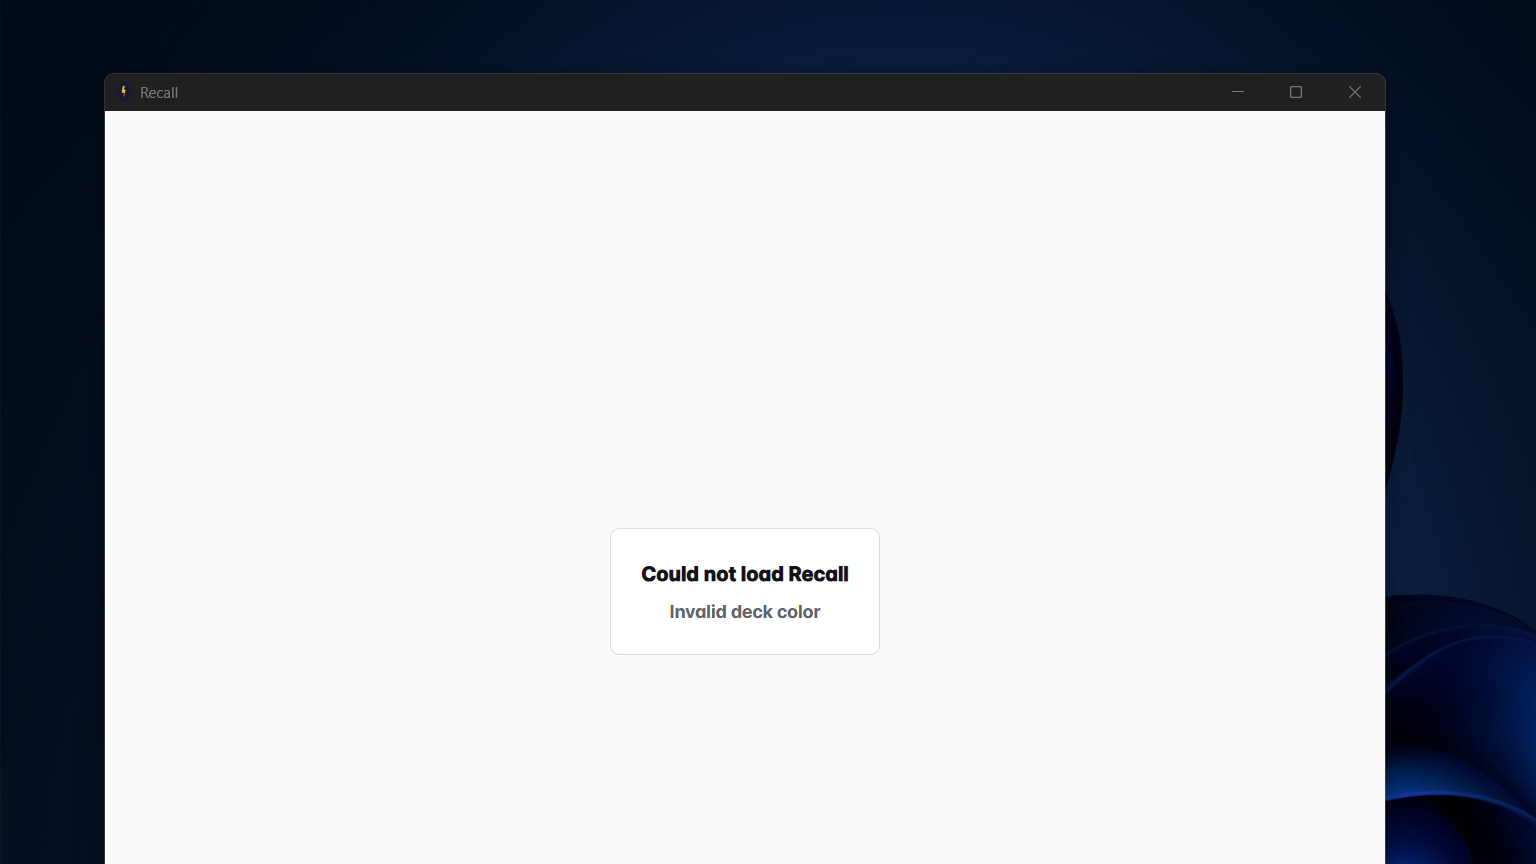
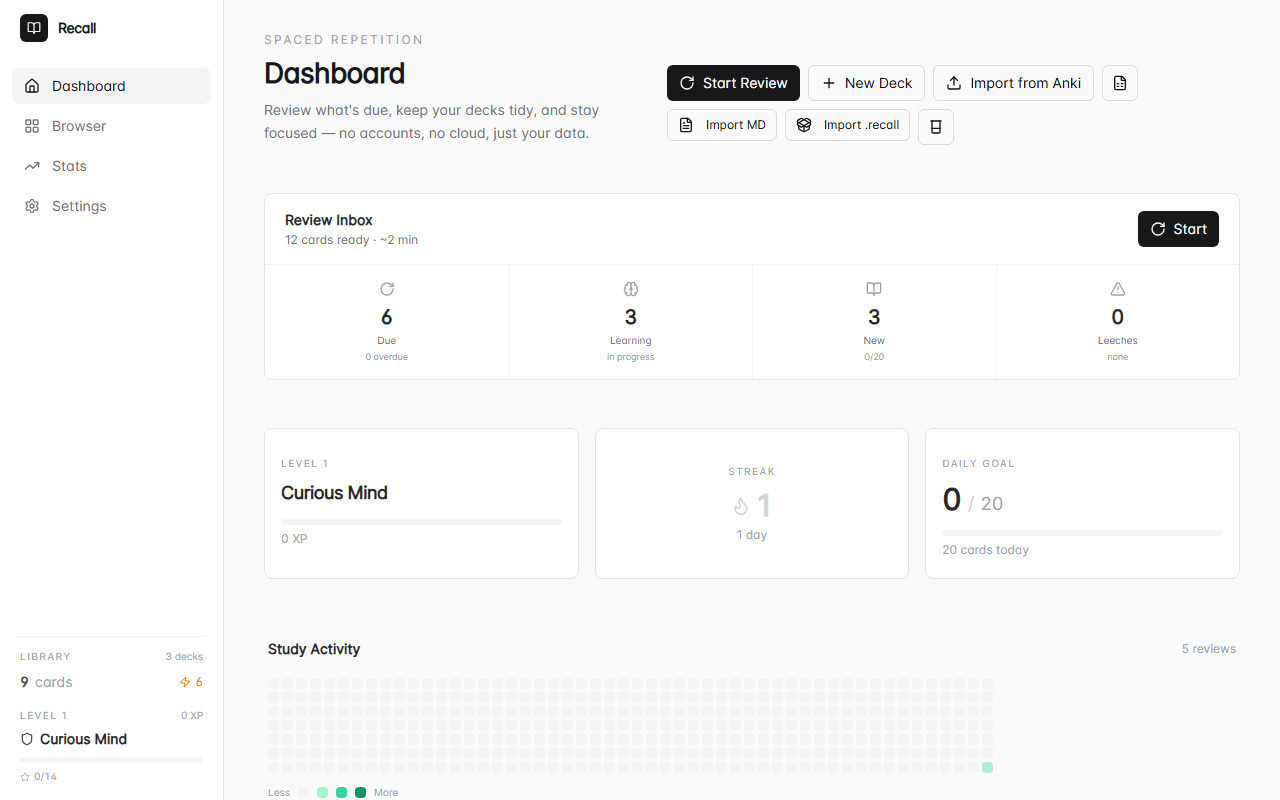
fix: revert screenshots, fix CI lint errors
- Revert screenshots to original (pending user review)
- Fix cargo fmt in anki_import.rs (function signature)
- Fix eslint: remove unused imageSrc, use useCallback for drawCanvas
- Fix eslint: avoid JSX in try/catch (RichCard image occlusion)

diff --git a/src/components/image-occlusion-editor.tsx b/src/components/image-occlusion-editor.tsx
@@ -1,4 +1,4 @@
-import { useState, useRef, useEffect } from "react";
+import { useState, useRef, useEffect, useCallback } from "react";
 import { X, Plus } from "lucide-react";
 import type { ImageOcclusionData, OcclusionShape } from "@/types";
 import { insertImage, getImageUrl } from "@/services/images";
@@ -9,39 +9,38 @@ interface Props {
 }
 
 export function ImageOcclusionEditor({ value, onChange }: Props) {
-  const [imageSrc, setImageSrc] = useState<string>("");
   const [drawing, setDrawing] = useState(false);
   const [startPos, setStartPos] = useState<{ x: number; y: number } | null>(null);
   const [currentShape, setCurrentShape] = useState<OcclusionShape | null>(null);
   const canvasRef = useRef<HTMLCanvasElement>(null);
   const imageRef = useRef<HTMLImageElement | null>(null);
 
-  // Load image when imageUrl changes
-  useEffect(() => {
-    if (!value?.imageUrl) {
-      setImageSrc("");
-      imageRef.current = null;
-      return;
+  const drawShape = useCallback((ctx: CanvasRenderingContext2D, shape: OcclusionShape, img: HTMLImageElement) => {
+    const x = (shape.x / 100) * img.width;
+    const y = (shape.y / 100) * img.height;
+    const w = (shape.width / 100) * img.width;
+    const h = (shape.height / 100) * img.height;
+
+    // Semi-transparent overlay
+    ctx.fillStyle = "rgba(0, 0, 0, 0.5)";
+    ctx.fillRect(x, y, w, h);
+
+    // Border
+    ctx.strokeStyle = "#fff";
+    ctx.lineWidth = 2;
+    ctx.strokeRect(x, y, w, h);
+
+    // Label
+    if (shape.label) {
+      ctx.fillStyle = "#fff";
+      ctx.font = "16px sans-serif";
+      ctx.textAlign = "center";
+      ctx.textBaseline = "middle";
+      ctx.fillText(shape.label, x + w / 2, y + h / 2);
     }
+  }, []);
 
-    getImageUrl(value.imageUrl).then((url) => {
-      if (!url) return;
-      setImageSrc(url);
-      const img = new Image();
-      img.onload = () => {
-        imageRef.current = img;
-        drawCanvas();
-      };
-      img.src = url;
-    });
-  }, [value?.imageUrl]);
-
-  // Redraw canvas when shapes change
-  useEffect(() => {
-    drawCanvas();
-  }, [value?.occlusions]);
-
-  const drawCanvas = () => {
+  const drawCanvas = useCallback(() => {
     const canvas = canvasRef.current;
     const img = imageRef.current;
     if (!canvas || !img) return;
@@ -65,32 +64,30 @@ export function ImageOcclusionEditor({ value, onChange }: Props) {
     if (currentShape) {
       drawShape(ctx, currentShape, img);
     }
-  };
+  }, [value?.occlusions, currentShape, drawShape]);
 
-  const drawShape = (ctx: CanvasRenderingContext2D, shape: OcclusionShape, img: HTMLImageElement) => {
-    const x = (shape.x / 100) * img.width;
-    const y = (shape.y / 100) * img.height;
-    const w = (shape.width / 100) * img.width;
-    const h = (shape.height / 100) * img.height;
-
-    // Semi-transparent overlay
-    ctx.fillStyle = "rgba(0, 0, 0, 0.5)";
-    ctx.fillRect(x, y, w, h);
-
-    // Border
-    ctx.strokeStyle = "#fff";
-    ctx.lineWidth = 2;
-    ctx.strokeRect(x, y, w, h);
-
-    // Label
-    if (shape.label) {
-      ctx.fillStyle = "#fff";
-      ctx.font = "16px sans-serif";
-      ctx.textAlign = "center";
-      ctx.textBaseline = "middle";
-      ctx.fillText(shape.label, x + w / 2, y + h / 2);
+  // Load image when imageUrl changes
+  useEffect(() => {
+    if (!value?.imageUrl) {
+      imageRef.current = null;
+      return;
     }
-  };
+
+    getImageUrl(value.imageUrl).then((url) => {
+      if (!url) return;
+      const img = new Image();
+      img.onload = () => {
+        imageRef.current = img;
+        drawCanvas();
+      };
+      img.src = url;
+    });
+  }, [value?.imageUrl, drawCanvas]);
+
+  // Redraw canvas when shapes change
+  useEffect(() => {
+    drawCanvas();
+  }, [drawCanvas]);
 
   const handleMouseDown = (e: React.MouseEvent<HTMLCanvasElement>) => {
     if (!imageRef.current) return;

diff --git a/src/components/image-occlusion-study.tsx b/src/components/image-occlusion-study.tsx
@@ -1,4 +1,4 @@
-import { useState, useRef, useEffect } from "react";
+import { useState, useRef, useEffect, useCallback } from "react";
 import type { ImageOcclusionData, OcclusionShape } from "@/types";
 import { getImageUrl } from "@/services/images";
 
@@ -8,55 +8,11 @@ interface Props {
 }
 
 export function ImageOcclusionStudy({ data, revealed }: Props) {
-  const [imageSrc, setImageSrc] = useState<string>("");
   const [revealedIndex, setRevealedIndex] = useState<number | null>(null);
   const canvasRef = useRef<HTMLCanvasElement>(null);
   const imageRef = useRef<HTMLImageElement | null>(null);
 
-  // Load image
-  useEffect(() => {
-    if (!data.imageUrl) return;
-
-    getImageUrl(data.imageUrl).then((url) => {
-      if (!url) return;
-      setImageSrc(url);
-      const img = new Image();
-      img.onload = () => {
-        imageRef.current = img;
-        drawCanvas();
-      };
-      img.src = url;
-    });
-  }, [data.imageUrl]);
-
-  // Redraw when revealed state changes
-  useEffect(() => {
-    drawCanvas();
-  }, [revealed, revealedIndex]);
-
-  const drawCanvas = () => {
-    const canvas = canvasRef.current;
-    const img = imageRef.current;
-    if (!canvas || !img) return;
-
-    const ctx = canvas.getContext("2d");
-    if (!ctx) return;
-
-    // Set canvas size
-    canvas.width = img.width;
-    canvas.height = img.height;
-
-    // Draw image
-    ctx.drawImage(img, 0, 0);
-
-    // Draw occlusions
-    data.occlusions.forEach((shape, i) => {
-      const isRevealed = revealed || revealedIndex === i;
-      drawShape(ctx, shape, img, isRevealed, i);
-    });
-  };
-
-  const drawShape = (
+  const drawShape = useCallback((
     ctx: CanvasRenderingContext2D,
     shape: OcclusionShape,
     img: HTMLImageElement,
@@ -99,7 +55,49 @@ export function ImageOcclusionStudy({ data, revealed }: Props) {
       ctx.textBaseline = "middle";
       ctx.fillText(`${index + 1}`, x + w / 2, y + h / 2);
     }
-  };
+  }, []);
+
+  const drawCanvas = useCallback(() => {
+    const canvas = canvasRef.current;
+    const img = imageRef.current;
+    if (!canvas || !img) return;
+
+    const ctx = canvas.getContext("2d");
+    if (!ctx) return;
+
+    // Set canvas size
+    canvas.width = img.width;
+    canvas.height = img.height;
+
+    // Draw image
+    ctx.drawImage(img, 0, 0);
+
+    // Draw occlusions
+    data.occlusions.forEach((shape, i) => {
+      const isRevealed = revealed || revealedIndex === i;
+      drawShape(ctx, shape, img, isRevealed, i);
+    });
+  }, [data.occlusions, revealed, revealedIndex, drawShape]);
+
+  // Load image
+  useEffect(() => {
+    if (!data.imageUrl) return;
+
+    getImageUrl(data.imageUrl).then((url) => {
+      if (!url) return;
+      const img = new Image();
+      img.onload = () => {
+        imageRef.current = img;
+        drawCanvas();
+      };
+      img.src = url;
+    });
+  }, [data.imageUrl, drawCanvas]);
+
+  // Redraw when revealed state changes
+  useEffect(() => {
+    drawCanvas();
+  }, [drawCanvas]);
 
   const handleRevealNext = () => {
     if (revealedIndex === null) {

diff --git a/src/components/RichCard.tsx b/src/components/RichCard.tsx
@@ -95,16 +95,17 @@ function preprocessContent(content: string): string {
 export function RichCard({ content, isBack = false, cardType = "basic", revealed = true, allowHtml = false }: RichCardProps): JSX.Element {
   // Image occlusion cards
   if (cardType === "image-occlusion") {
+    let occlusionData: ImageOcclusionData;
     try {
-      const occlusionData = JSON.parse(content) as ImageOcclusionData;
-      return (
-        <div className="w-full">
-          <ImageOcclusionStudy data={occlusionData} revealed={revealed} />
-        </div>
-      );
+      occlusionData = JSON.parse(content) as ImageOcclusionData;
     } catch {
       return <div className="text-red-500">Invalid image occlusion data</div>;
     }
+    return (
+      <div className="w-full">
+        <ImageOcclusionStudy data={occlusionData} revealed={revealed} />
+      </div>
+    );
   }
 
   // For cloze cards that aren't revealed yet, render blanks inline

diff --git a/src-tauri/src/anki_import.rs b/src-tauri/src/anki_import.rs
@@ -254,7 +254,10 @@ fn replace_media_references(content: &str, media_map: &HashMap<String, String>) 
 }
 
 #[tauri::command]
-pub async fn parse_anki_apkg(app: tauri::AppHandle, file_path: String) -> Result<AnkiImportReport, String> {
+pub async fn parse_anki_apkg(
+    app: tauri::AppHandle,
+    file_path: String,
+) -> Result<AnkiImportReport, String> {
     let file = File::open(&file_path).map_err(|e| format!("Cannot open file: {}", e))?;
 
     // Zip-bomb guard: check compressed size